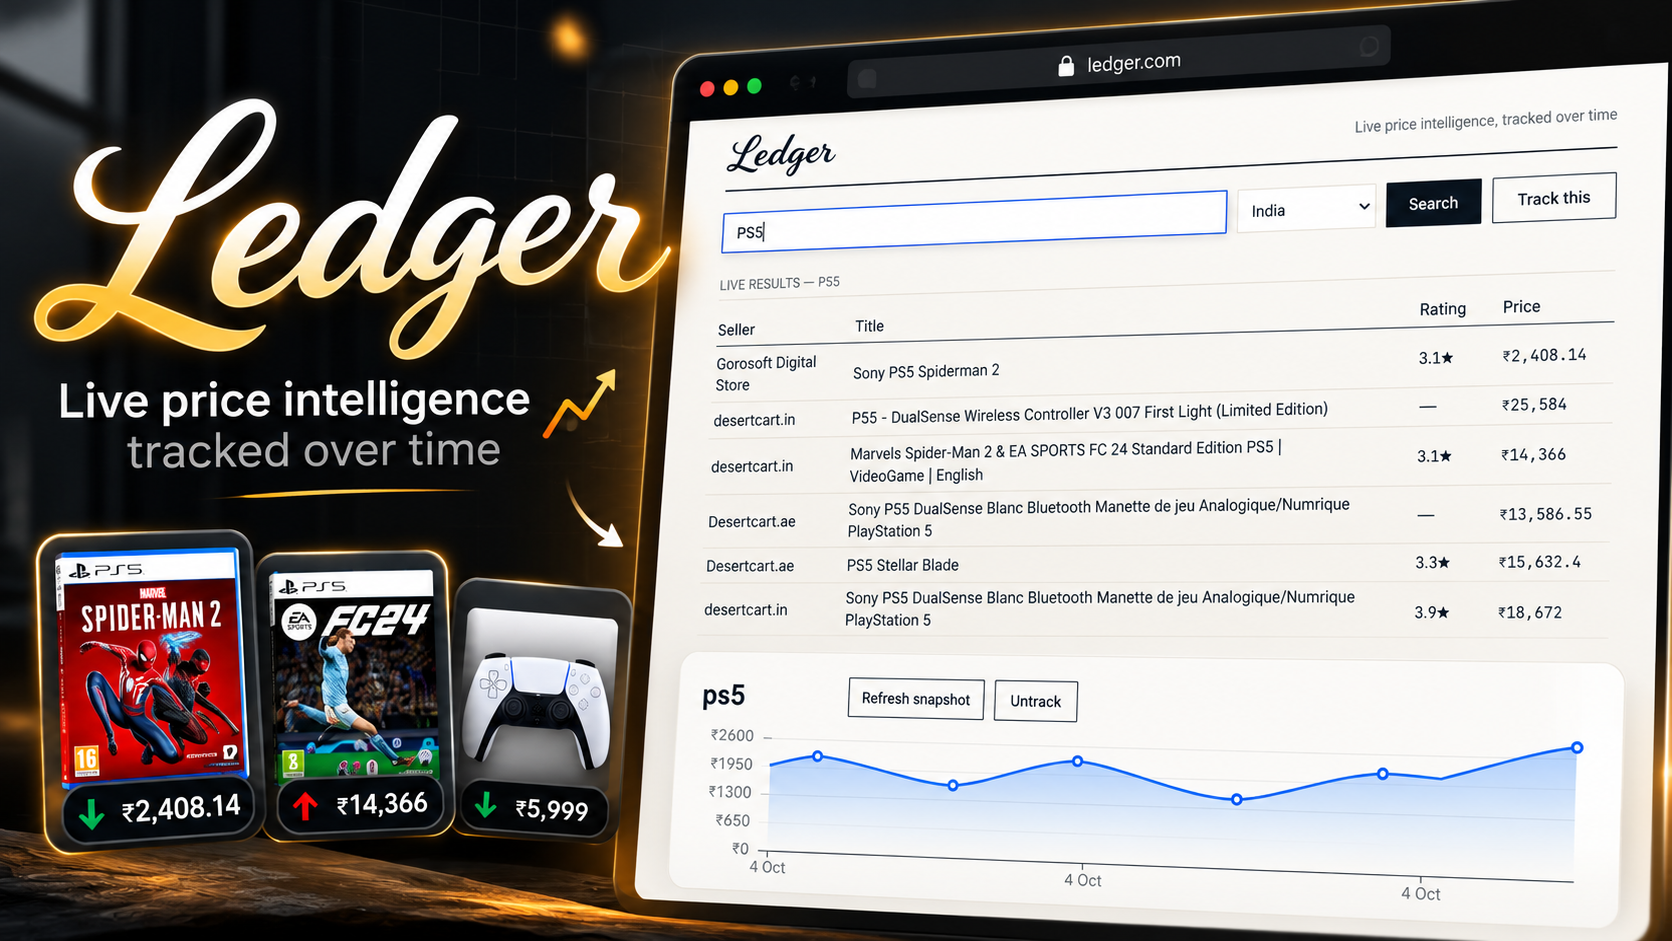
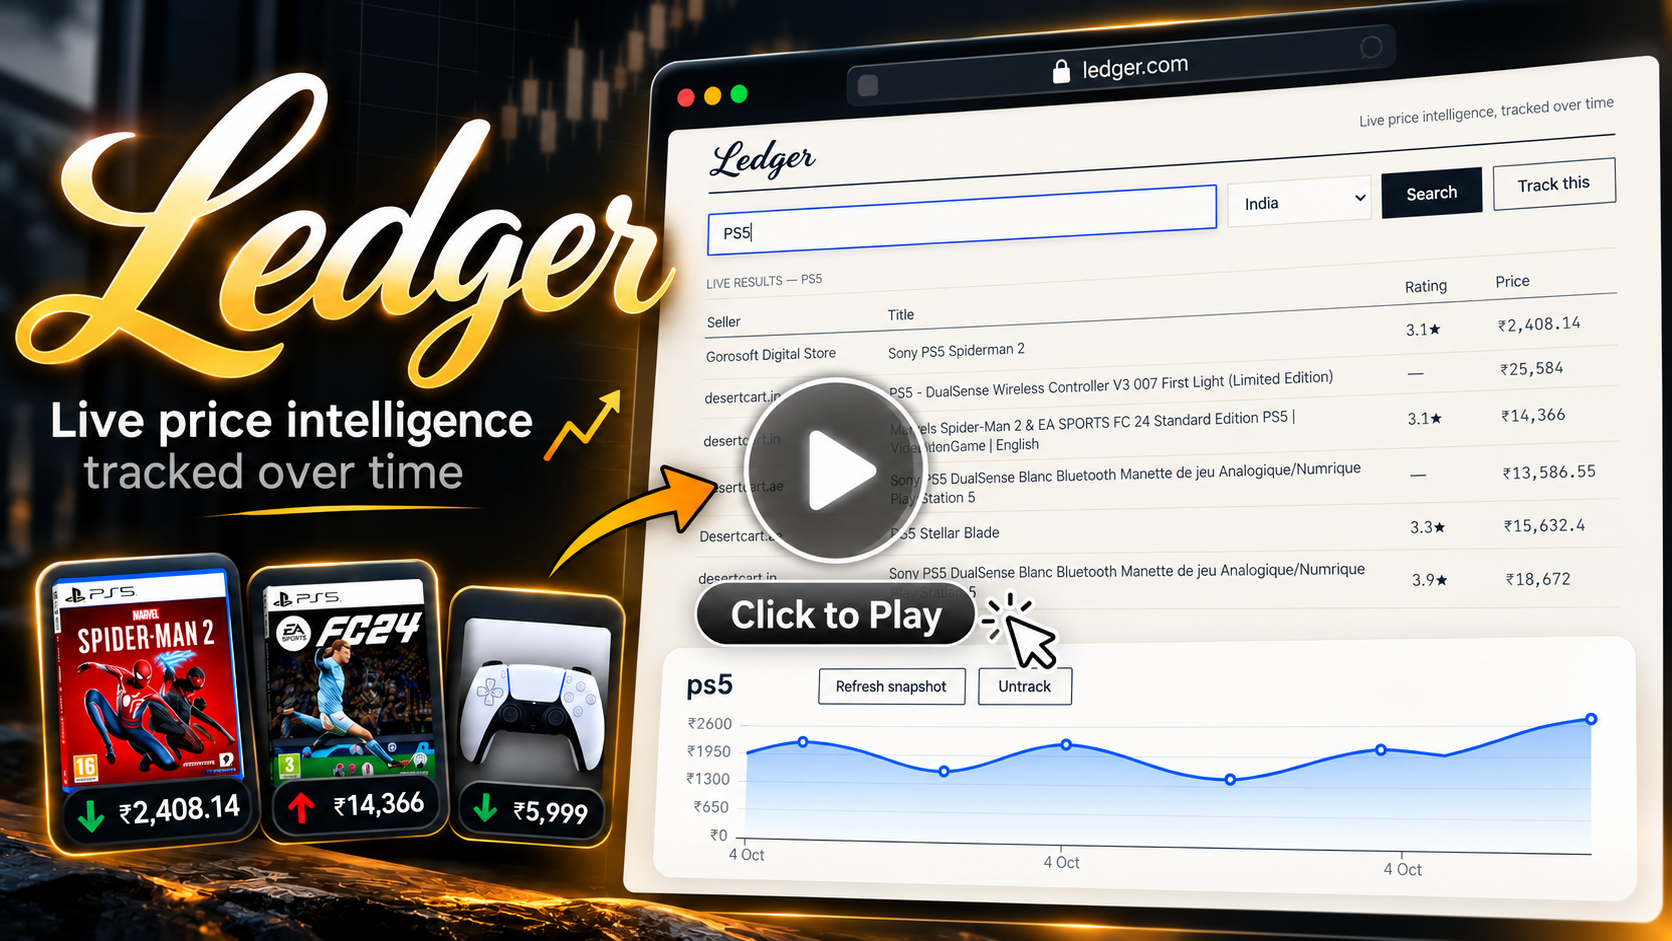
update: thumbnail

diff --git a/README.md b/README.md
@@ -8,7 +8,7 @@ across sellers, track products over time, and ask it questions in plain English.
 🚀 **Live app:** https://ui-ledger-intel.onrender.com  
 🔗 **API:** https://api-ledger-intel.onrender.com
 
-[![Watch the demo](./thumbnail.png)](https://drive.google.com/file/d/1tO4TmYDDRStHDulzIbAeqIQ-3AxtLllx/view?usp=sharing)
+[![Watch the demo](./thumbnail.png)](https://drive.google.com/file/d/12HupMGVDv2qpg8P2b0g9ezn9PYwptntn/view?usp=sharing)
 
 ## How SerpApi powers this
 
